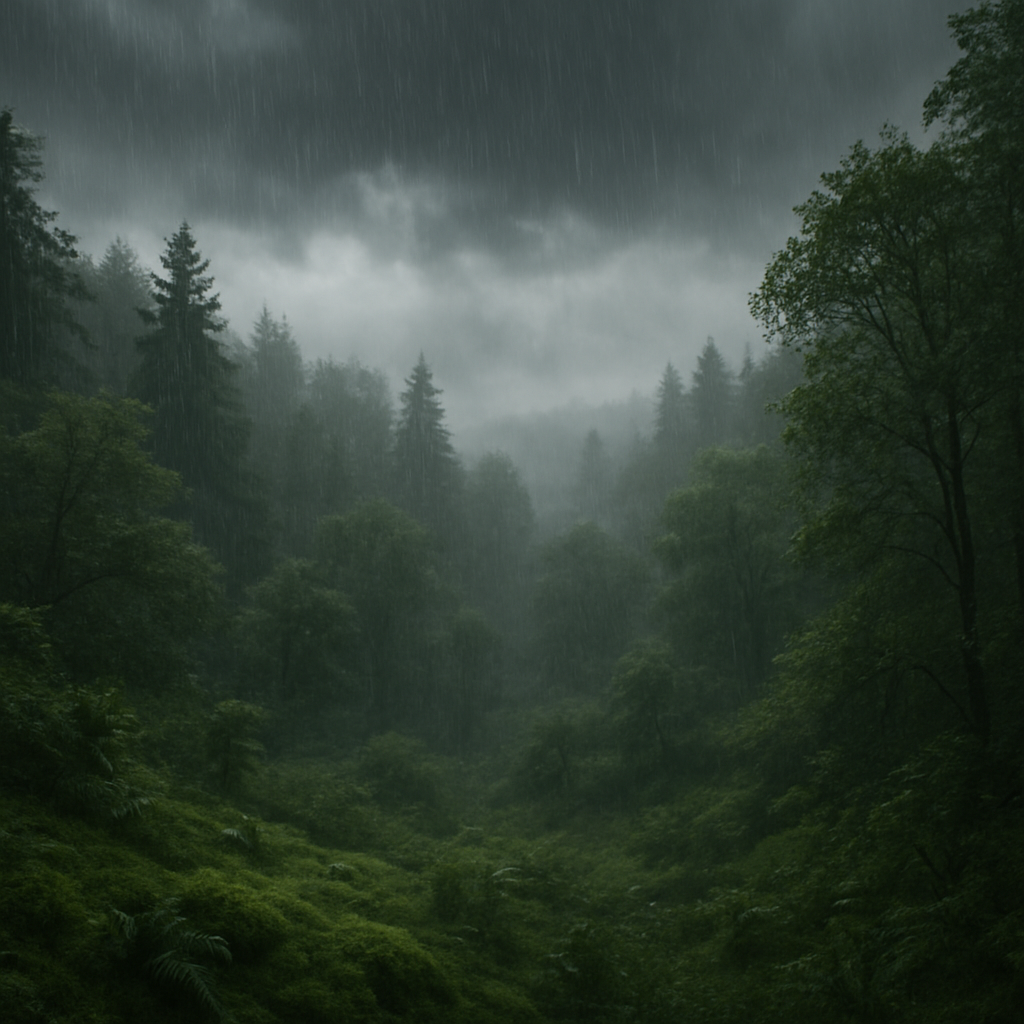
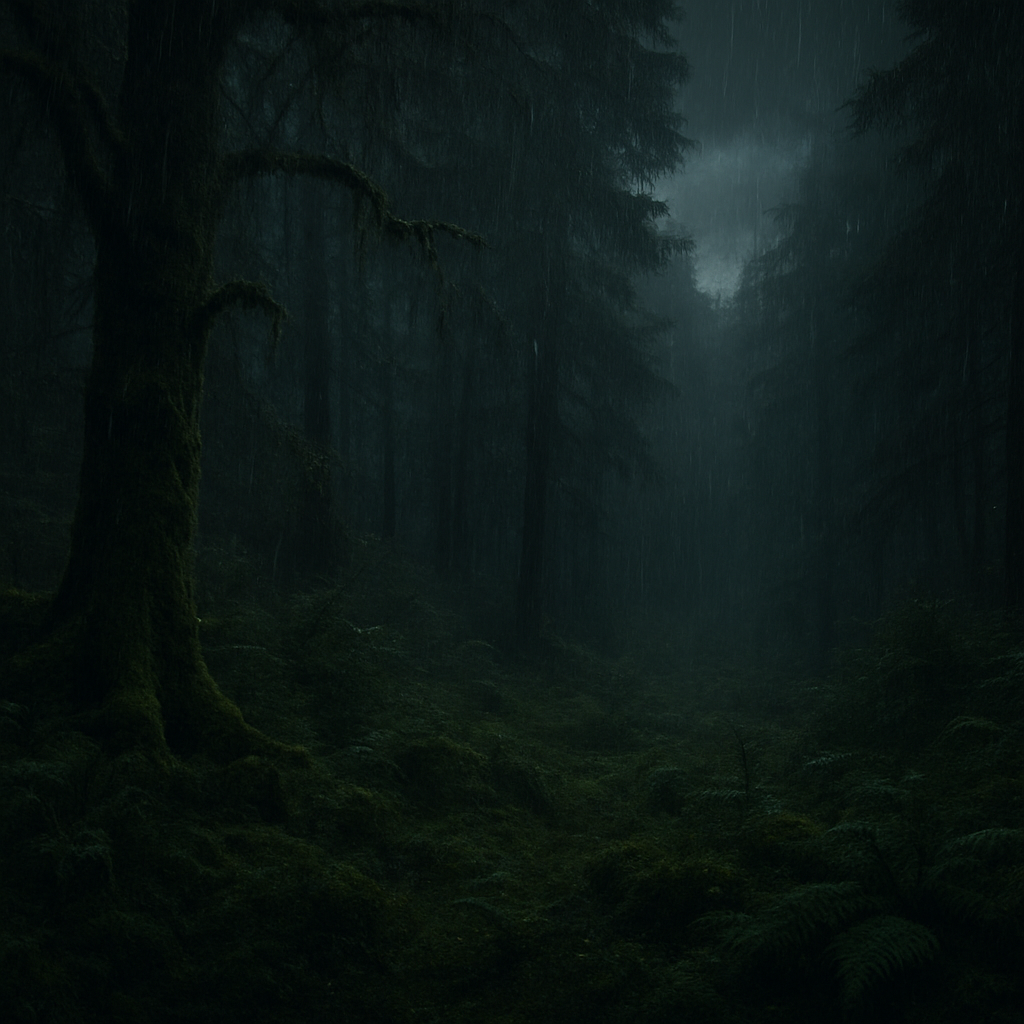
feat: enhance desert moon background with parallax effect and fog layers update

diff --git a/components/backgrounds/desert-moon-background.tsx b/components/backgrounds/desert-moon-background.tsx
@@ -5,28 +5,41 @@ import { cn } from "@/lib/utils"
 
 export function DesertMoonBackground() {
   const [particles, setParticles] = useState<Array<{ id: number; left: string; delay: number; duration: number }>>([])
+  const [parallax, setParallax] = useState({ x: 0, y: 0 })
 
   useEffect(() => {
     // Generate random falling rain particles
-    const newParticles = Array.from({ length: 12 }, (_, i) => ({
+    const newParticles = Array.from({ length: 20 }, (_, i) => ({
       id: i,
       left: `${Math.random() * 100}%`,
-      delay: Math.random() * 2,
-      duration: 8 + Math.random() * 4,
+      delay: Math.random() * 3,
+      duration: 6 + Math.random() * 3,
     }))
     setParticles(newParticles)
   }, [])
 
+  // Mouse parallax effect
+  useEffect(() => {
+    const handleMouseMove = (e: MouseEvent) => {
+      const x = (e.clientX / window.innerWidth - 0.5) * 15
+      const y = (e.clientY / window.innerHeight - 0.5) * 10
+      setParallax({ x, y })
+    }
+
+    window.addEventListener("mousemove", handleMouseMove)
+    return () => window.removeEventListener("mousemove", handleMouseMove)
+  }, [])
+
   // Generate random fog layers at different depths
-  const fogLayers = Array.from({ length: 4 }, (_, i) => ({
+  const fogLayers = Array.from({ length: 5 }, (_, i) => ({
     id: i,
-    opacity: 0.15 + (i * 0.1),
-    speed: 3 + i * 1.5,
+    opacity: 0.2 + (i * 0.12),
+    speed: 4 + i * 2,
   }))
 
   return (
     <div className="absolute inset-0 overflow-hidden">
-      {/* Rainy nature background image - realistic forest with rain and fog */}
+      {/* Main rainy forest background - darker, more atmospheric */}
       <div
         className="absolute inset-0"
         style={{
@@ -35,51 +48,62 @@ export function DesertMoonBackground() {
           backgroundPosition: "center",
           backgroundRepeat: "no-repeat",
           imageRendering: "high-quality",
-          filter: "brightness(0.95) contrast(1.05) saturate(0.9)",
+          filter: "brightness(0.75) contrast(1.2) saturate(1.1) hue-rotate(-5deg)",
+          transform: `translate(${parallax.x}px, ${parallax.y}px)`,
+          transition: "transform 0.1s ease-out",
         }}
       />
 
-      {/* Atmospheric moisture / fog effect - multiple layers */}
+      {/* Dark atmospheric fog layers - realistic depth */}
       {fogLayers.map((layer) => (
         <div
           key={layer.id}
           className="absolute inset-0 pointer-events-none"
           style={{
-            background: `linear-gradient(180deg, rgba(150,160,140,${layer.opacity * 0.4}) 0%, rgba(120,140,110,${layer.opacity * 0.3}) 50%, rgba(100,120,90,${layer.opacity * 0.5}) 100%)`,
-            animation: `drift-fog ${layer.speed * 10}s linear infinite`,
-            animationDelay: `${layer.id * 2}s`,
+            background: `linear-gradient(180deg, rgba(60,80,60,${layer.opacity * 0.5}) 0%, rgba(50,70,50,${layer.opacity * 0.4}) 50%, rgba(40,60,40,${layer.opacity * 0.6}) 100%)`,
+            animation: `drift-fog ${layer.speed * 12}s linear infinite`,
+            animationDelay: `${layer.id * 1.5}s`,
+            opacity: 0.7,
           }}
         />
       ))}
 
-      {/* Rain/moisture particles falling - soft drizzle effect */}
+      {/* Rain/moisture particles - soft drizzle with enhanced visibility */}
       {particles.map((particle) => (
         <div
           key={particle.id}
           className="absolute rounded-full pointer-events-none"
           style={{
-            width: "1px",
-            height: "8px",
+            width: "0.8px",
+            height: "10px",
             left: particle.left,
             top: "-10px",
-            background: "linear-gradient(180deg, rgba(200,210,200,0.6) 0%, rgba(150,160,150,0) 100%)",
-            boxShadow: "0 0 2px rgba(180,190,180,0.4)",
+            background: "linear-gradient(180deg, rgba(150,160,150,0.7) 0%, rgba(120,130,120,0) 100%)",
+            boxShadow: "0 0 3px rgba(140,150,140,0.5)",
             animation: `rain-fall ${particle.duration}s linear infinite`,
             animationDelay: `${particle.delay}s`,
           }}
         />
       ))}
 
-      {/* Mist/haze overlay - creates moody atmosphere */}
+      {/* Ambient mist - creates moody atmospheric depth */}
       <div
         className="absolute inset-0 pointer-events-none"
         style={{
-          background: "radial-gradient(ellipse at 50% 30%, rgba(180,190,170,0.15) 0%, transparent 50%)",
-          animation: "pulse 8s ease-in-out infinite",
+          background: "radial-gradient(ellipse at 50% 40%, rgba(80,100,80,0.25) 0%, rgba(40,50,40,0.1) 50%, transparent 100%)",
+          animation: "pulse-mist 10s ease-in-out infinite",
         }}
       />
 
-      {/* Rain droplet streaks on viewer - wet glass effect */}
+      {/* Dark shadow vignette - premium focus effect */}
+      <div
+        className="absolute inset-0 pointer-events-none"
+        style={{
+          background: "radial-gradient(ellipse at center, transparent 25%, rgba(0,0,0,0.4) 100%)",
+        }}
+      />
+
+      {/* Subtle wet surface effect - moisture and rain */}
       <div
         className="absolute inset-0 pointer-events-none"
         style={{
@@ -87,26 +111,18 @@ export function DesertMoonBackground() {
             repeating-linear-gradient(
               90deg,
               transparent,
-              transparent 2px,
-              rgba(200,210,200,0.05) 2px,
-              rgba(200,210,200,0.05) 4px
+              transparent 3px,
+              rgba(100,120,100,0.08) 3px,
+              rgba(100,120,100,0.08) 6px
             ),
             repeating-linear-gradient(
               180deg,
               transparent,
-              transparent 1px,
-              rgba(180,190,180,0.03) 1px,
-              rgba(180,190,180,0.03) 2px
+              transparent 2px,
+              rgba(80,100,80,0.06) 2px,
+              rgba(80,100,80,0.06) 3px
             )
           `,
-        }}
-      />
-
-      {/* Soft vignette - darker edges, focus on center */}
-      <div
-        className="absolute inset-0 pointer-events-none"
-        style={{
-          background: "radial-gradient(ellipse at center, transparent 30%, rgba(0,0,0,0.25) 100%)",
         }}
       />
 
@@ -116,11 +132,11 @@ export function DesertMoonBackground() {
             transform: translateY(-20px);
             opacity: 0;
           }
-          20% {
-            opacity: 0.6;
+          15% {
+            opacity: 0.7;
           }
-          80% {
-            opacity: 0.6;
+          85% {
+            opacity: 0.7;
           }
           to {
             transform: translateY(100vh);
@@ -133,16 +149,16 @@ export function DesertMoonBackground() {
             transform: translateX(0);
           }
           50% {
-            transform: translateX(20px);
+            transform: translateX(25px);
           }
         }
 
-        @keyframes pulse {
+        @keyframes pulse-mist {
           0%, 100% {
             opacity: 1;
           }
           50% {
-            opacity: 0.8;
+            opacity: 0.85;
           }
         }
       `}</style>
